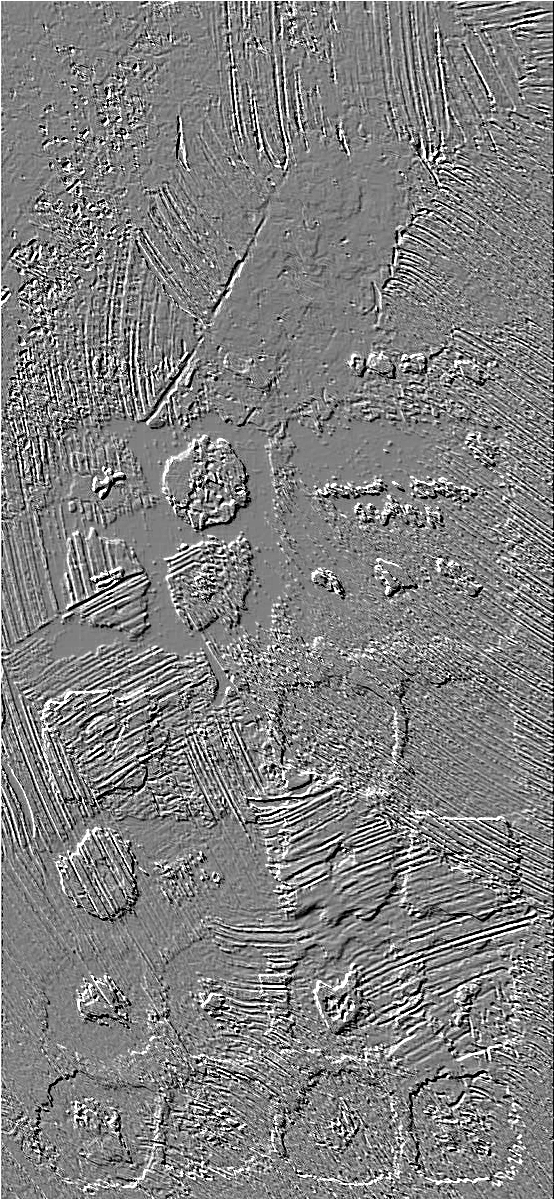
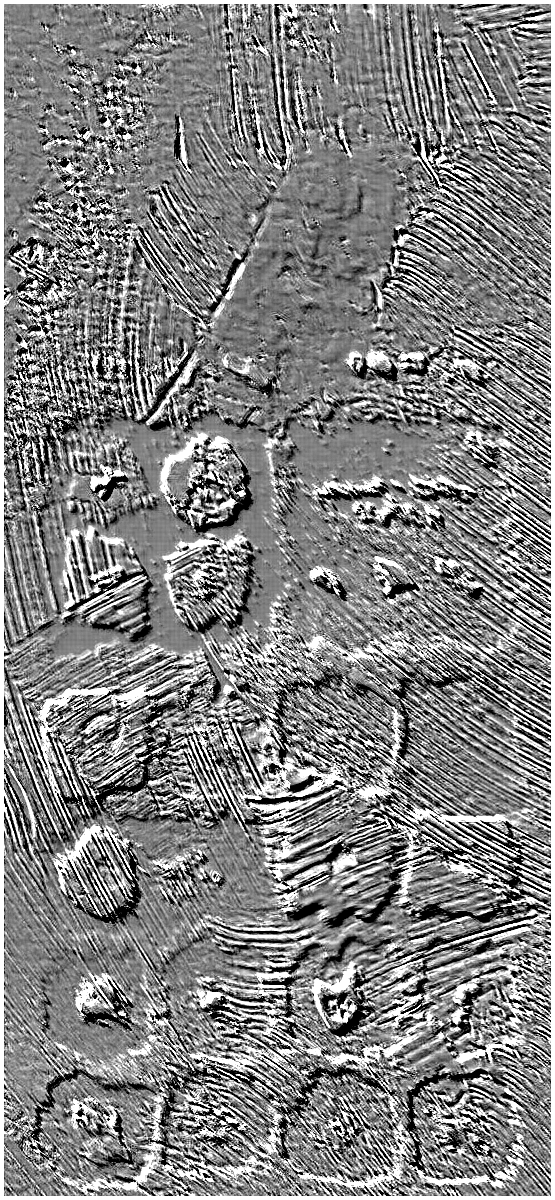
feat(impasto_oil): upgrade to ultra-detail multi-scale impasto relief shader

diff --git a/src/features/templates/impasto_oil_helpers.js b/src/features/templates/impasto_oil_helpers.js
@@ -8,7 +8,7 @@ export function getImpastoRidgesImage() {
   if (ridgesImg) return ridgesImg;
   if (typeof Image !== 'undefined') {
     ridgesImg = new Image();
-    ridgesImg.src = 'assets/impasto_ridges.png?v=1';
+    ridgesImg.src = 'assets/impasto_ridges.png?v=2';
   }
   return ridgesImg;
 }
@@ -52,10 +52,17 @@ export function renderImpastoPhoto(ctx, img, bounds, cw = 555, ch = 1200) {
 
   ctx.save();
   if ('filter' in ctx) {
-    ctx.filter = 'contrast(1.15) saturate(1.22) brightness(0.98)';
+    ctx.filter = 'contrast(1.18) saturate(1.28) brightness(0.97)';
   }
 
   try {
+    // Directional paint strokes: subtle sub-pixel offset drag for physical paint body
+    ctx.globalAlpha = 0.35;
+    ctx.drawImage(img, drawX - 1.5, drawY - 1.5, drawW, drawH);
+    ctx.drawImage(img, drawX + 1.5, drawY + 1.5, drawW, drawH);
+
+    // Primary photo pigment layer
+    ctx.globalAlpha = 1.0;
     ctx.drawImage(img, drawX, drawY, drawW, drawH);
   } catch {
     // Fallback for mock unit test environments
@@ -76,7 +83,7 @@ export function renderImpastoReliefPass(ctx, texture, cw = 555, ch = 1200) {
 
   // Pass 1: Primary 3D palette-knife relief highlights and grooves
   ctx.globalCompositeOperation = 'overlay';
-  ctx.globalAlpha = 0.88;
+  ctx.globalAlpha = 0.94;
   try {
     ctx.drawImage(texture, 0, 0, cw, ch);
   } catch {
@@ -85,7 +92,16 @@ export function renderImpastoReliefPass(ctx, texture, cw = 555, ch = 1200) {
 
   // Pass 2: Glazed oil paint sheen and buttery body depth
   ctx.globalCompositeOperation = 'soft-light';
-  ctx.globalAlpha = 0.65;
+  ctx.globalAlpha = 0.78;
+  try {
+    ctx.drawImage(texture, 0, 0, cw, ch);
+  } catch {
+    // Fallback for mock unit test environments
+  }
+
+  // Pass 3: Specular varnish glaze glints on palette-knife peaks
+  ctx.globalCompositeOperation = 'color-dodge';
+  ctx.globalAlpha = 0.28;
   try {
     ctx.drawImage(texture, 0, 0, cw, ch);
   } catch {
